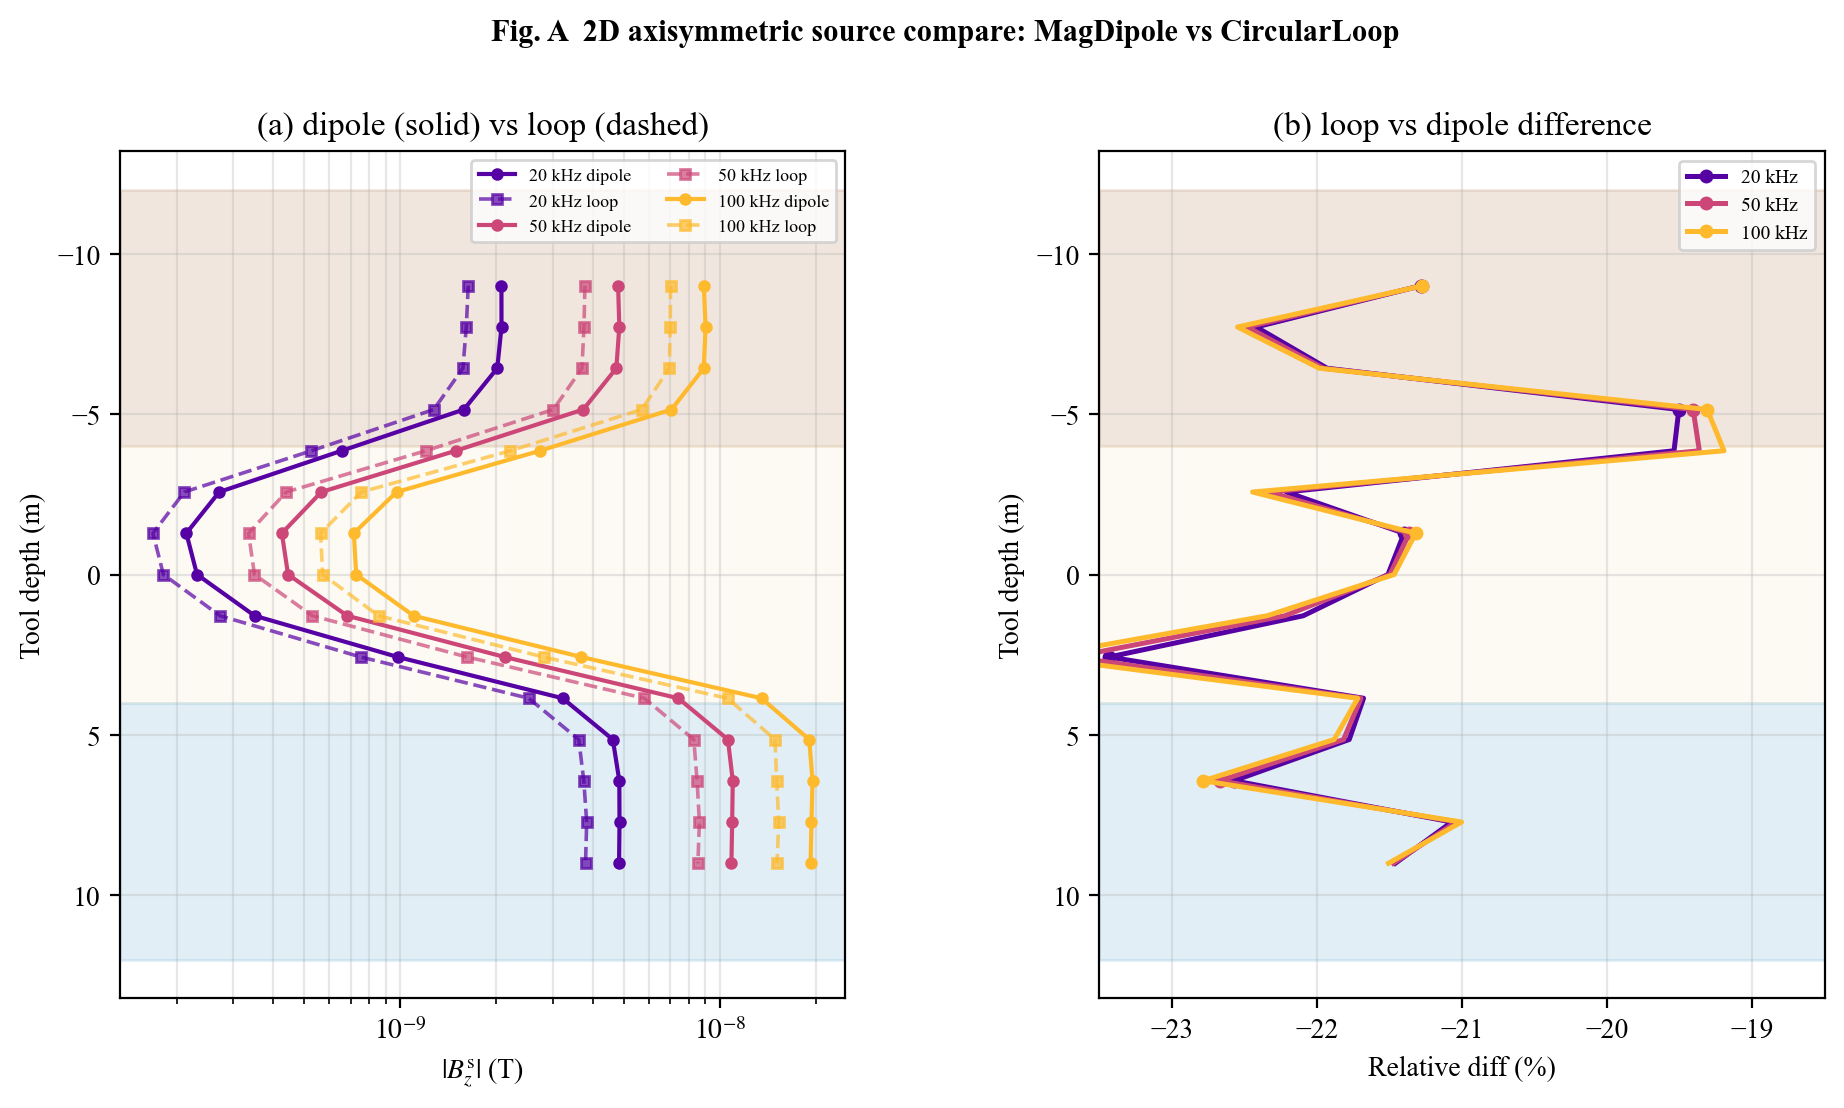
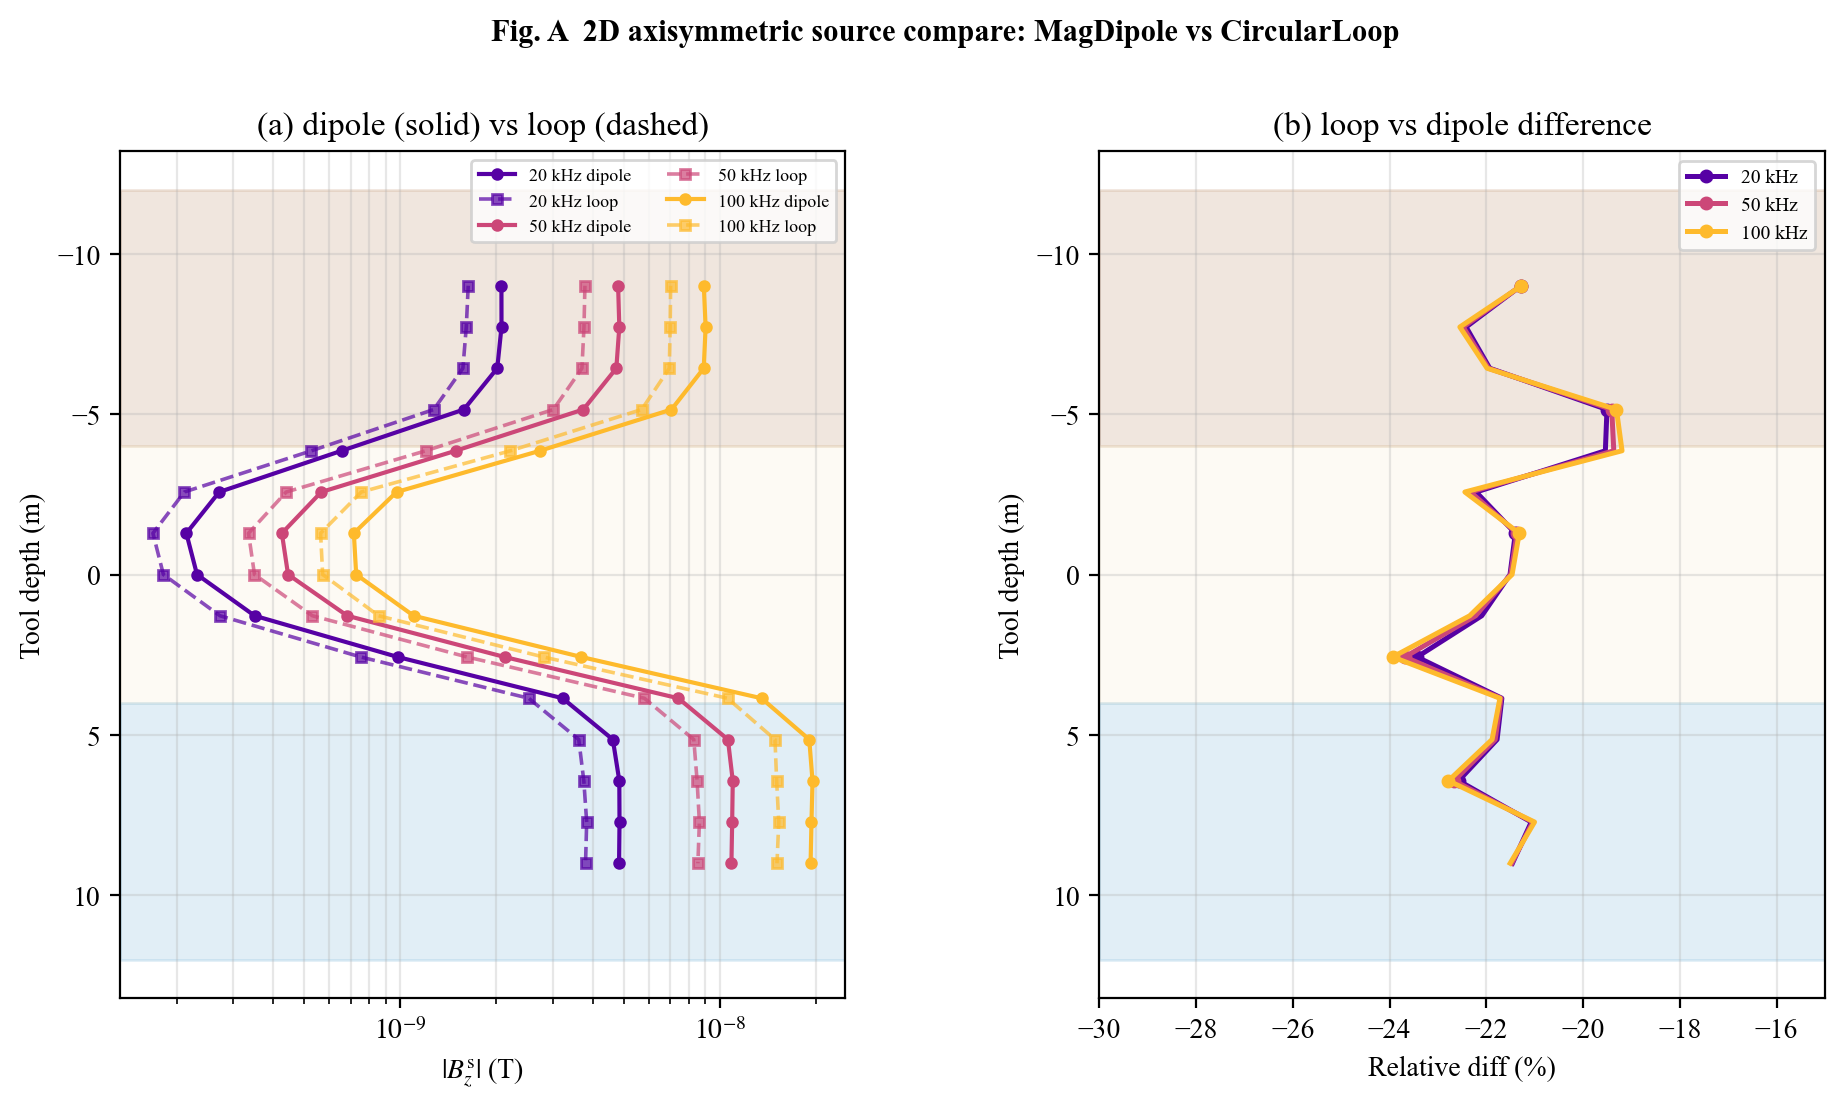
style: vertical_well_advanced 图 A(b) xlim 调整为 (-30, -15)

diff --git a/examples/vertical_well_advanced.py b/examples/vertical_well_advanced.py
@@ -132,7 +132,7 @@ def fig_A_source_compare(mesh):
             title=T("(a) 磁偶极子(实) vs 回线(虚)", "(a) dipole (solid) vs loop (dashed)"))
     ax1.legend(fontsize=6.5, ncol=2)
     ax2.axvline(0, color="k", lw=0.8, ls="--")
-    ax2.set_xlim(-23.5, -18.5)  # 进一步缩小区间，曲线更分散
+    ax2.set_xlim(-30, -15)
     ax2.set(xlabel=T("相对差异 (%)", "Relative diff (%)"),
             ylabel=T("仪器深度 (m)", "Tool depth (m)"),
             title=T("(b) 回线相对偶极子差异", "(b) loop vs dipole difference"))
